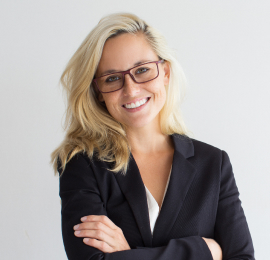
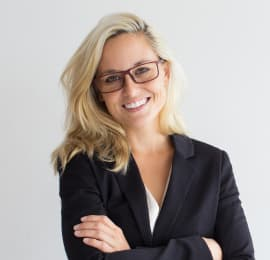
Меняет картинки

diff --git a/index.html b/index.html
@@ -60,9 +60,9 @@
         <section>
             <h2>Чем мы занимаемся</h2>
             <ul>
-                <li><img src="./image/box1.svg" alt="Набор текста на клавиатуре" width="370" height="294"></li>
-                <li><img src="./image/box2.svg" alt="Набор текста с телефона на ноутбук" width="370" height="294"></li>
-                <li><img src="./image/box3.svg" alt="Рисование на планшете" width="370" height="294"></li>
+                <li><img src="./image/box1.jpg" alt="Набор текста на клавиатуре" width="370" height="294"></li>
+                <li><img src="./image/box2.jpg" alt="Набор текста с телефона на ноутбук" width="370" height="294"></li>
+                <li><img src="./image/box3.jpg" alt="Рисование на планшете" width="370" height="294"></li>
             </ul>
         </section>
 
@@ -71,22 +71,22 @@
             <h2>Наша команда</h2>
             <ul>
                 <li>
-                    <img src="./image/img1.svg" alt="Член команды" width="270" height="260">
+                    <img src="./image/img1.jpg" alt="Член команды" width="270" height="260">
                     <h3>Игорь Демьяненко</h3>
                     <p>Product Designer</p>
                 </li>
                 <li>
-                    <img src="./image/img2.svg" alt="Член команды" width="270" height="260">
+                    <img src="./image/img2.jpg" alt="Член команды" width="270" height="260">
                     <h3>Ольга Репина</h3>
                     <p>Frontend Developer</p>
                 </li>
                 <li>
-                    <img src="./image/img3.svg" alt="Член команды" width="270" height="260">
+                    <img src="./image/img3.jpg" alt="Член команды" width="270" height="260">
                     <h3>Николай Тарасов</h3>
                     <p>Marketing</p>
                 </li>
                 <li>
-                    <img src="./image/img4.svg" alt="Член команды" width="270" height="260">
+                    <img src="./image/img4.jpg" alt="Член команды" width="270" height="260">
                     <h3>Михаил Ермаков</h3>
                     <p>UI Designer</p>
                 </li>
@@ -95,7 +95,8 @@
     </main>
 
     <footer>
-
+        <a href="">WebStudio</a>
+        
     </footer>
 </body>
 </html>
